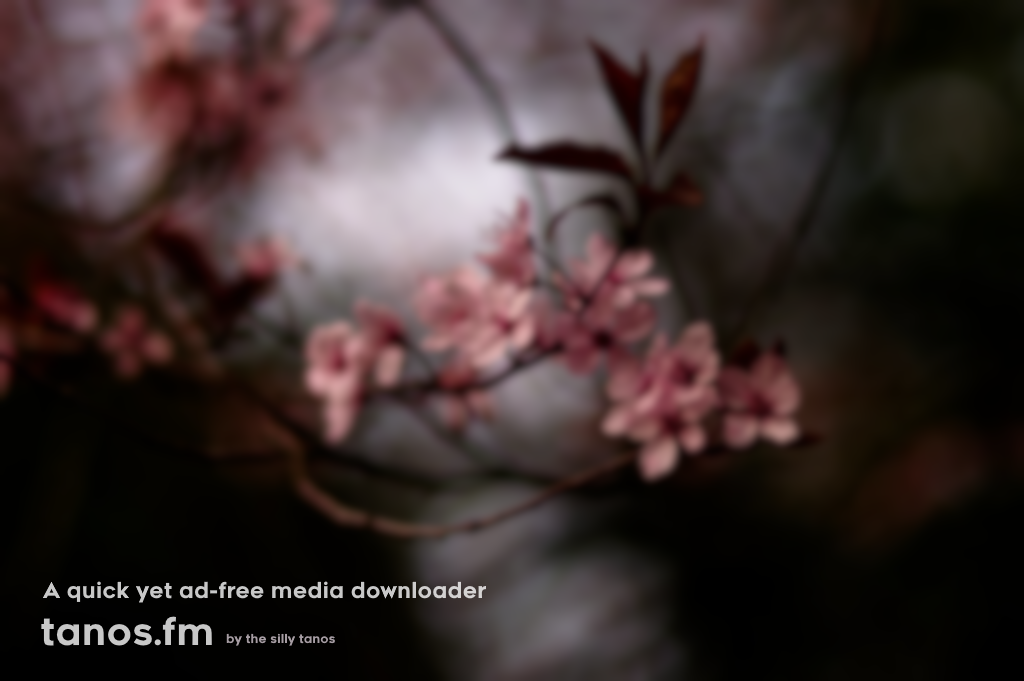
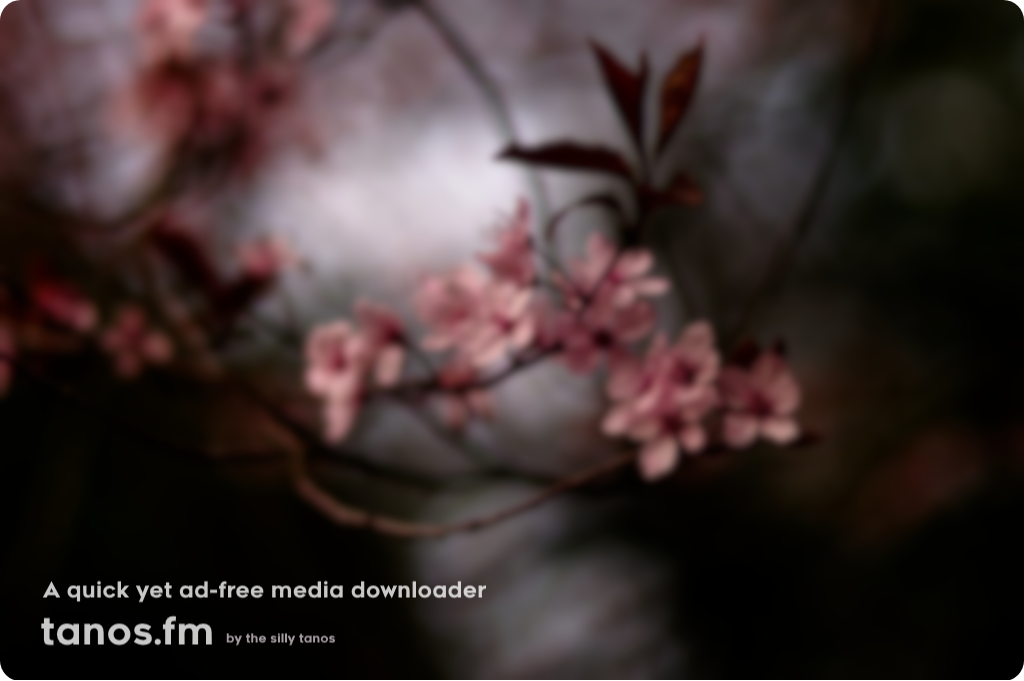
quick windows 10 fix n extra debug
and rounded artwork

diff --git a/server/functions/download.js b/server/functions/download.js
@@ -189,9 +189,12 @@ router.get("/", async (req, res) => {
 
           const ffmpegCommand = ffmpeg(audioStream)
             .audioCodec("libmp3lame")
-            .audioBitrate(320)
+            .audioBitrate("320k")
             .format("mp3")
-            .on("start", () => console.log("Starting MP3 conversion..."))
+            .on("start", (cmd) => {
+              console.log("Starting MP3 conversion...");
+              console.log("FFmpeg command:", cmd);
+            })
             .on("error", (err) => {
               console.error("FFmpeg error:", err);
               if (!res.headersSent) {
@@ -205,7 +208,9 @@ router.get("/", async (req, res) => {
 
           // go go go
           const escapeMetadata = (str) => {
-            return String(str)
+            let value = String(str || "");
+            value = value.replace(/^[-\s]+/, "");
+            return value
               .replace(/=/g, "\\=") // Escape equals signs
               .replace(/:/g, "\\:") // Escape colons
               .replace(/#/g, "\\#") // Escape hashes
@@ -233,7 +238,10 @@ router.get("/", async (req, res) => {
             tempFiles.add({ path: tempOutputPathNoArt, timestamp: Date.now() });
 
             ffmpegCommand
-              .on("start", () => console.log("FFmpeg (no artwork) started"))
+              .on("start", (cmd) => {
+                console.log("FFmpeg (no artwork) started");
+                console.log("FFmpeg (no artwork) command:", cmd);
+              })
               .on("end", () => {
                 const readStream = fs.createReadStream(tempOutputPathNoArt);
                 readStream.pipe(res);
@@ -268,7 +276,12 @@ router.get("/", async (req, res) => {
             return;
           }
           try {
-            const pngBuffer = await sharp(imageBuffer).png().toBuffer();
+            let pngBuffer;
+            try {
+              pngBuffer = await sharp(imageBuffer).png().toBuffer();
+            } catch (e) {
+              pngBuffer = null;
+            }
             if (!pngBuffer) pngBuffer = imageBuffer;
 
             console.log("Sharp processing complete.");
@@ -300,13 +313,20 @@ router.get("/", async (req, res) => {
               .addOutputOption("-metadata:s:v", "title=Album cover")
               .addOutputOption("-metadata:s:v", "comment=Cover (front)")
               .addOutputOption("-disposition:v", "attached_pic")
-              .addOutputOption("-metadata", `title=${videoTitle}`)
-              .addOutputOption("-metadata", `artist=${author}`)
-              .addOutputOption("-metadata", `album=${videoTitle} - ${author}`)
+              .addOutputOption(
+                "-metadata",
+                `title=${escapeMetadata(videoTitle)}`
+              )
+              .addOutputOption("-metadata", `artist=${escapeMetadata(author)}`)
+              .addOutputOption(
+                "-metadata",
+                `album=${escapeMetadata(`${videoTitle} - ${author}`)}`
+              )
               .addOutputOption("-metadata", `genre=${genre || "Unknown"}`)
               .toFormat("mp3")
-              .on("start", () => {
+              .on("start", (cmd) => {
                 console.log("FFmpeg processing started");
+                console.log("FFmpeg (with artwork) command:", cmd);
               })
               .on("end", () => {
                 console.log("FFmpeg processing finished");
@@ -361,12 +381,20 @@ router.get("/", async (req, res) => {
               .input(audioStream)
               .audioCodec("libmp3lame")
               .audioBitrate("320k")
-              .addOutputOption("-metadata", `title=${videoTitle}`)
-              .addOutputOption("-metadata", `artist=${author}`)
-              .addOutputOption("-metadata", `album=${videoTitle} - ${author}`)
+              .addOutputOption(
+                "-metadata",
+                `title=${escapeMetadata(videoTitle)}`
+              )
+              .addOutputOption("-metadata", `artist=${escapeMetadata(author)}`)
+              .addOutputOption(
+                "-metadata",
+                `album=${escapeMetadata(`${videoTitle} - ${author}`)}`
+              )
               .addOutputOption("-metadata", `genre=${genre || "Unknown"}`)
               .toFormat("mp3")
-              .on("start", () => console.log("FFmpeg fallback started"))
+              .on("start", (cmd) => {
+                console.log("FFmpeg (fallback) command:", cmd);
+              })
               .on("end", () => {
                 const readStream = fs.createReadStream(tempOutputPathFb);
                 readStream.pipe(res);

diff --git a/client/src/app/components.js b/client/src/app/components.js
@@ -517,7 +517,7 @@ export const DownloadPanel = ({
         transition: "all 0.8s cubic-bezier(0.34, 1.56, 0.64, 1)",
         paddingRight: "32px",
         paddingLeft: "32px",
-        paddingBottom: "12px",
+        paddingBottom: "32px",
         paddingTop: "32px",
         borderRadius: "13px",
       }}
